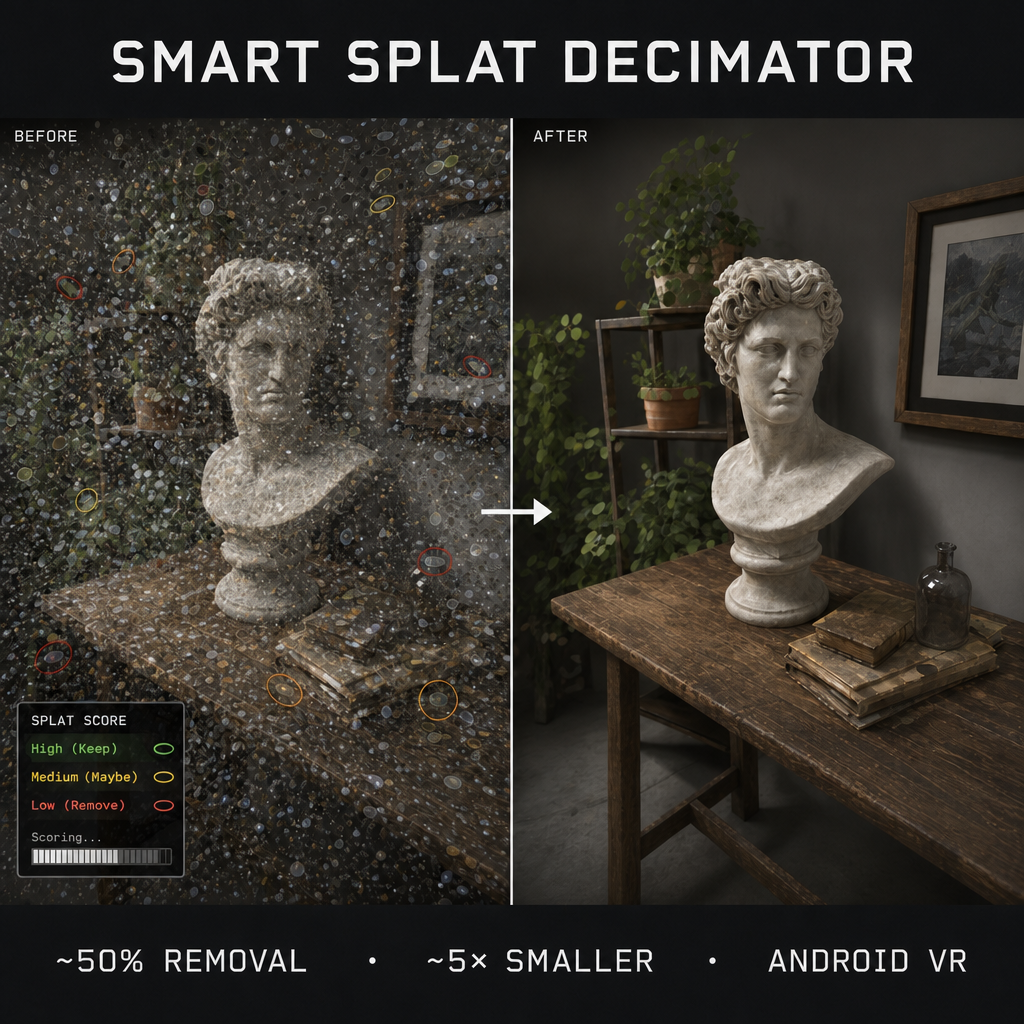
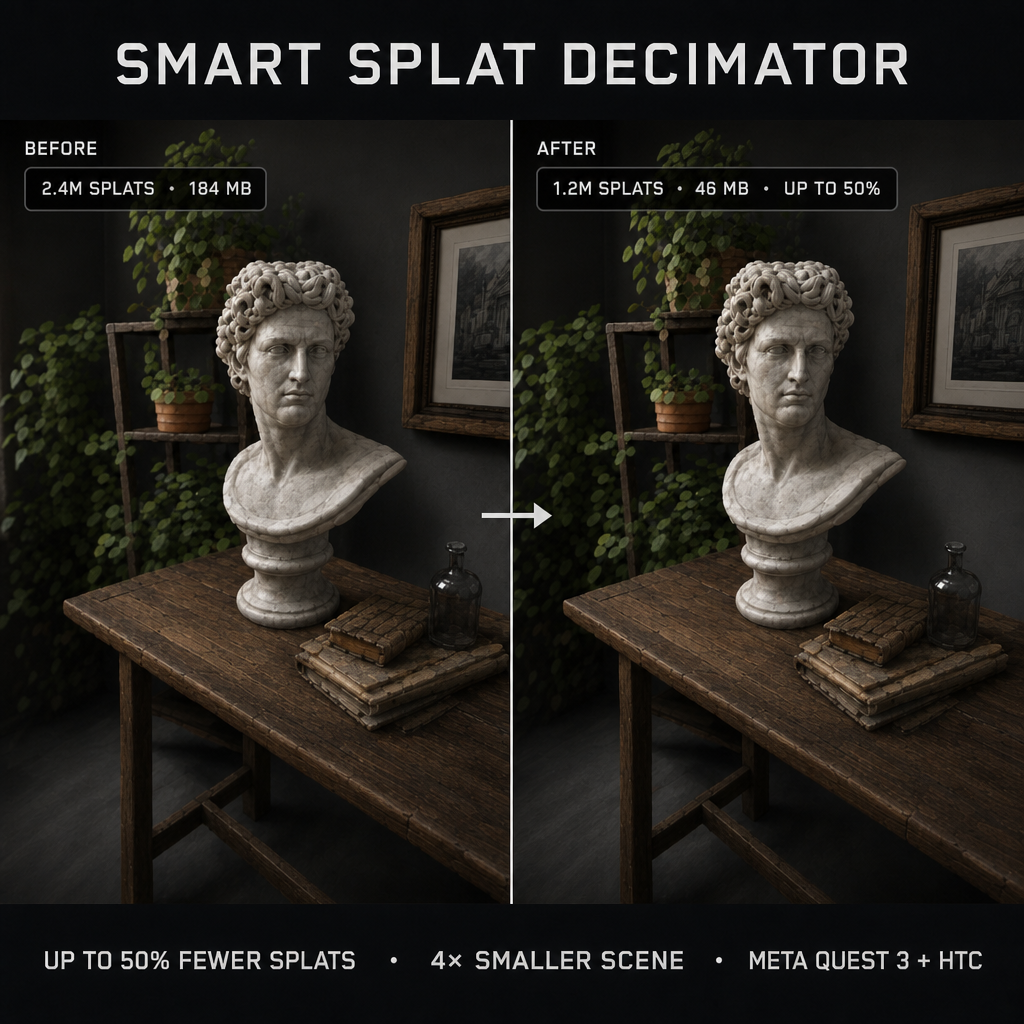
uodate

diff --git a/Shop.html b/Shop.html
@@ -649,7 +649,7 @@
     <!-- Product: Smart Splat Decimator -->
     <section class="product-section" id="smart-decimation" style="border-top: 1px solid #e0e0e0;">
         <div class="product-media">
-            <img src="Video/SmartDecimation/squarePromo.png" alt="Smart Splat Decimator" class="product-image" style="object-fit: contain; width: 100%; height: auto; background: #111;">
+            <img src="Video/SmartDecimation/squarePromo.png?v=3" alt="Smart Splat Decimator" class="product-image" style="object-fit: contain; width: 100%; height: auto; background: #111;">
             <video class="product-video" controls muted loop playsinline preload="metadata">
                 <source src="Video/SmartDecimation/dec.mp4" type="video/mp4">
                 Your browser does not support the video tag.
@@ -660,19 +660,19 @@
             <h3>Smart Splat Decimator</h3>
             <div class="product-price">$39</div>
             <p class="product-desc">
-                Smart Splat Decimator is now live! ~up to 50% removal, ~5× smaller.
+                Smart Splat Decimator is now live! Up to 50% fewer splats, 4× smaller scene.
             </p>
             <p class="product-desc">
                 Scores every splat by visual importance — opacity, size, shape — and removes the junk splats first, not the detail.
-                Built for big scenes on Android VR. Preview → decimate → save compressed.
+                Built for big scenes on Meta Quest 3 and HTC. Preview → decimate → save compressed.
                 Less memory. Faster frames. Same scene — smarter.
             </p>
             <ul class="feature-list">
-                <li>~up to 50% splat removal</li>
-                <li>~5× smaller compressed files</li>
+                <li>Up to 50% fewer splats</li>
+                <li>4× smaller scene</li>
                 <li>Scores by opacity, size, and shape</li>
                 <li>Removes junk splats first, keeps the detail</li>
-                <li>Built for big scenes on Android VR</li>
+                <li>Built for big scenes on Meta Quest 3 and HTC</li>
                 <li>Preview → decimate → save compressed</li>
                 <li>Less memory. Faster frames</li>
                 <li>Same scene — smarter</li>
@@ -683,7 +683,7 @@
             <button class="add-btn" id="addSmartDecimationBtn" onclick="addToCart('smart-decimation', 'Smart Splat Decimator', 39)">
                 Add to Cart — $39
             </button>
-            <p class="product-meta">Unity 6.5 · URP · Android VR · Lifetime updates</p>
+            <p class="product-meta">Unity 6.5 · URP · Meta Quest 3 · HTC · Lifetime updates</p>
         </div>
     </section>
 
@@ -772,7 +772,7 @@
             'worldlabs-api': 'Video/Worldlabs/promoImage.png',
             'vhs-vr-effects': '1980Promo.jpg',
             'unity-gsplat-editor': 'Video/GSEditor/editor.png',
-            'smart-decimation': 'Video/SmartDecimation/squarePromo.png',
+            'smart-decimation': 'Video/SmartDecimation/squarePromo.png?v=3',
             'trip-api-unity-hdrp': null
         };
         

diff --git a/index.html b/index.html
@@ -693,15 +693,15 @@
             </div>
             <div class="tools-grid">
                 <section class="featured featured-compact">
-                    <img src="Video/SmartDecimation/squarePromo.png" alt="Smart Splat Decimator" class="featured-image" style="object-fit: cover; width: 100%; height: auto;">
+                    <img src="Video/SmartDecimation/squarePromo.png?v=3" alt="Smart Splat Decimator" class="featured-image" style="object-fit: cover; width: 100%; height: auto;">
                     <div class="featured-content">
                         <h2>Now Live</h2>
                         <h3>Smart Splat Decimator</h3>
                         <div class="price">$39</div>
                         <p>
-                            Smart Splat Decimator is now live! ~up to 50% removal, ~5× smaller.
+                            Smart Splat Decimator is now live! Up to 50% fewer splats, 4× smaller scene.
                             Scores every splat by visual importance — opacity, size, shape — and removes the junk splats first, not the detail.
-                            Built for big scenes on Android VR. Preview → decimate → save compressed.
+                            Built for big scenes on Meta Quest 3 and HTC. Preview → decimate → save compressed.
                             Less memory. Faster frames. Same scene — smarter.
                         </p>
                         <a href="Shop.html#smart-decimation" class="featured-btn">Learn More →</a>
